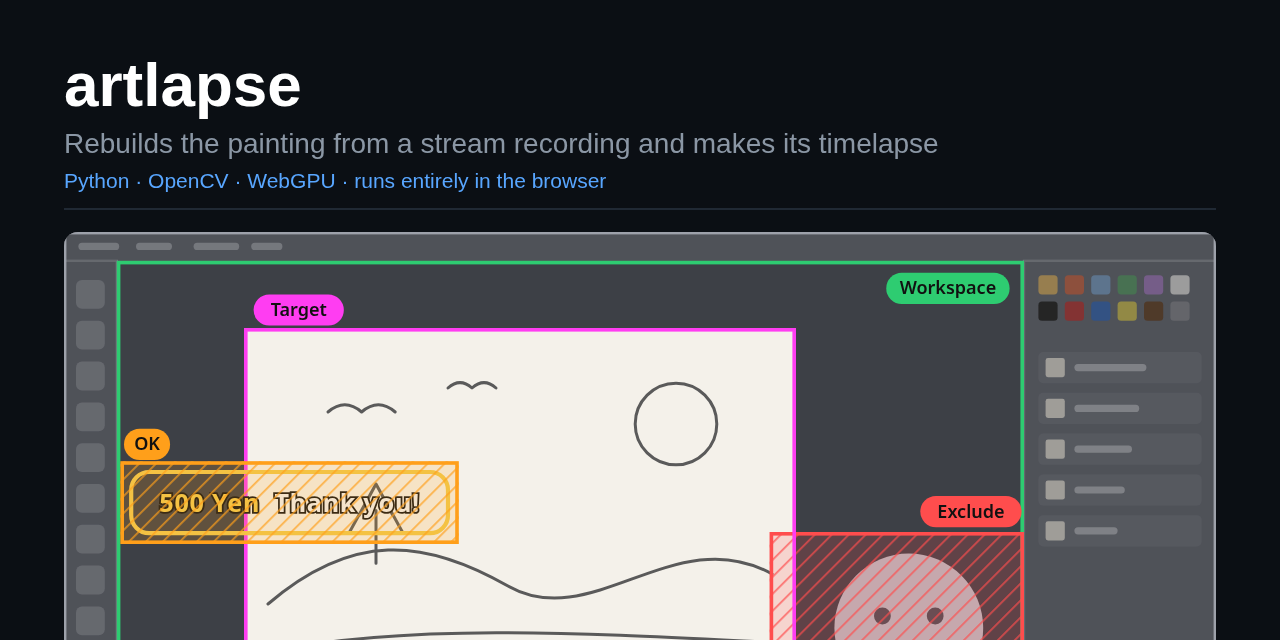
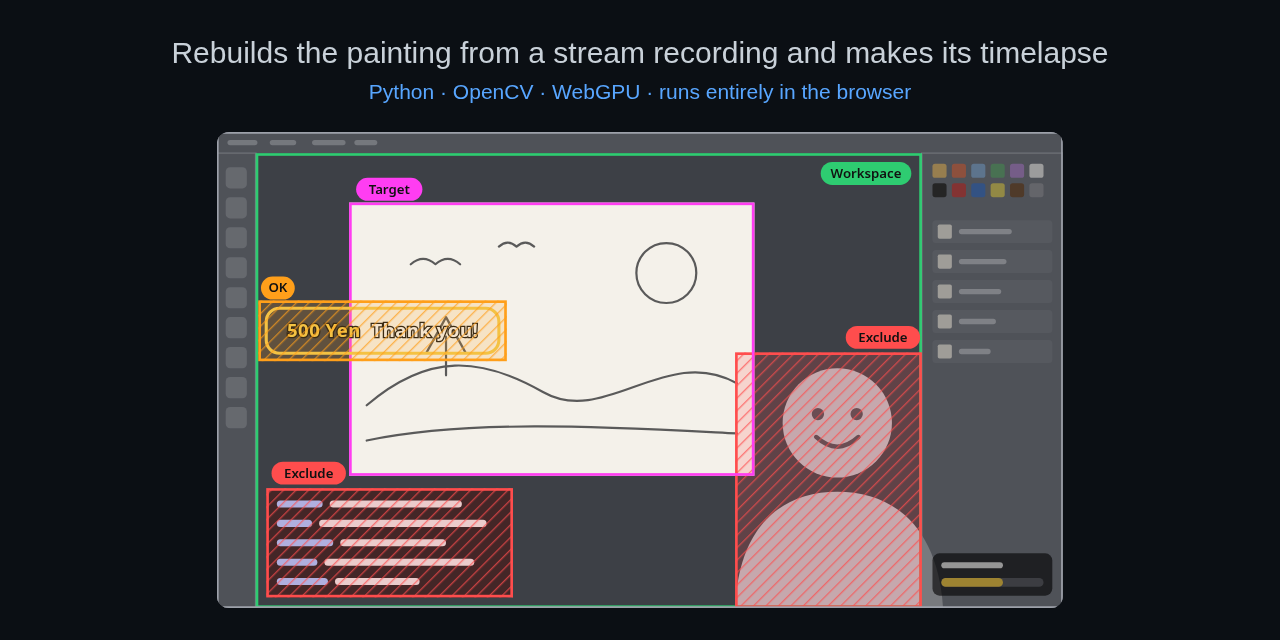
web/: the social card without the name, the whole setup diagram on it

diff --git a/web/index.html b/web/index.html
@@ -17,7 +17,7 @@
 <meta property="og:image" content="https://artlapse.tintan.do/social.png">
 <meta property="og:image:width" content="1280">
 <meta property="og:image:height" content="640">
-<meta property="og:image:alt" content="artlapse: a sketched stream screen with the Workspace, Target and Exclude boxes drawn on it">
+<meta property="og:image:alt" content="A sketched stream screen with the Workspace, Target and Exclude boxes drawn on it">
 <meta name="twitter:card" content="summary_large_image">
 <link rel="preconnect" href="https://fonts.googleapis.com">
 <link rel="preconnect" href="https://fonts.gstatic.com" crossorigin>
